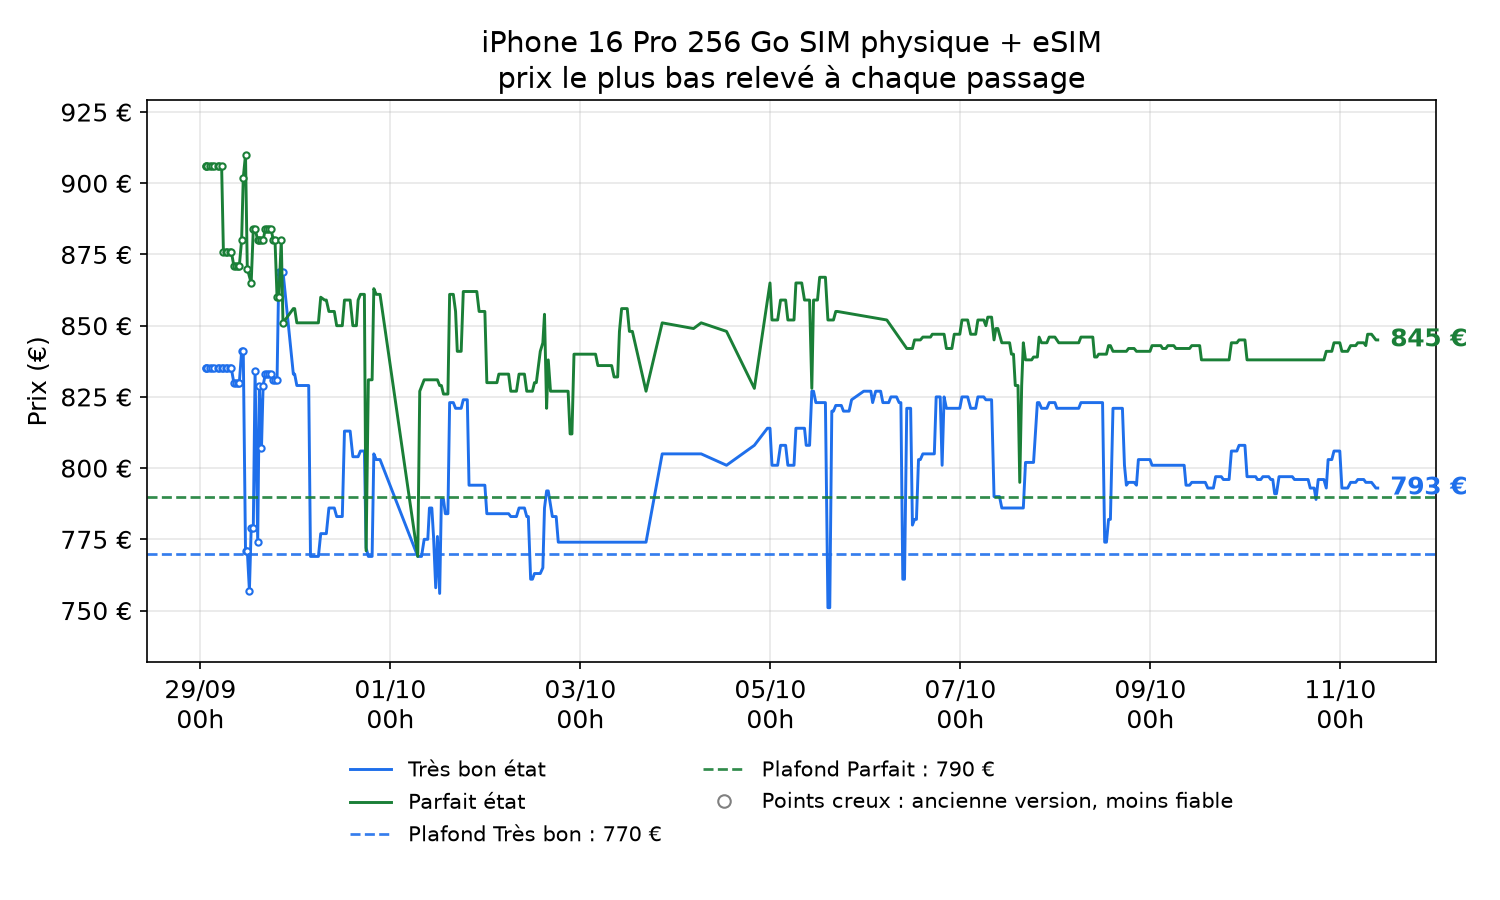
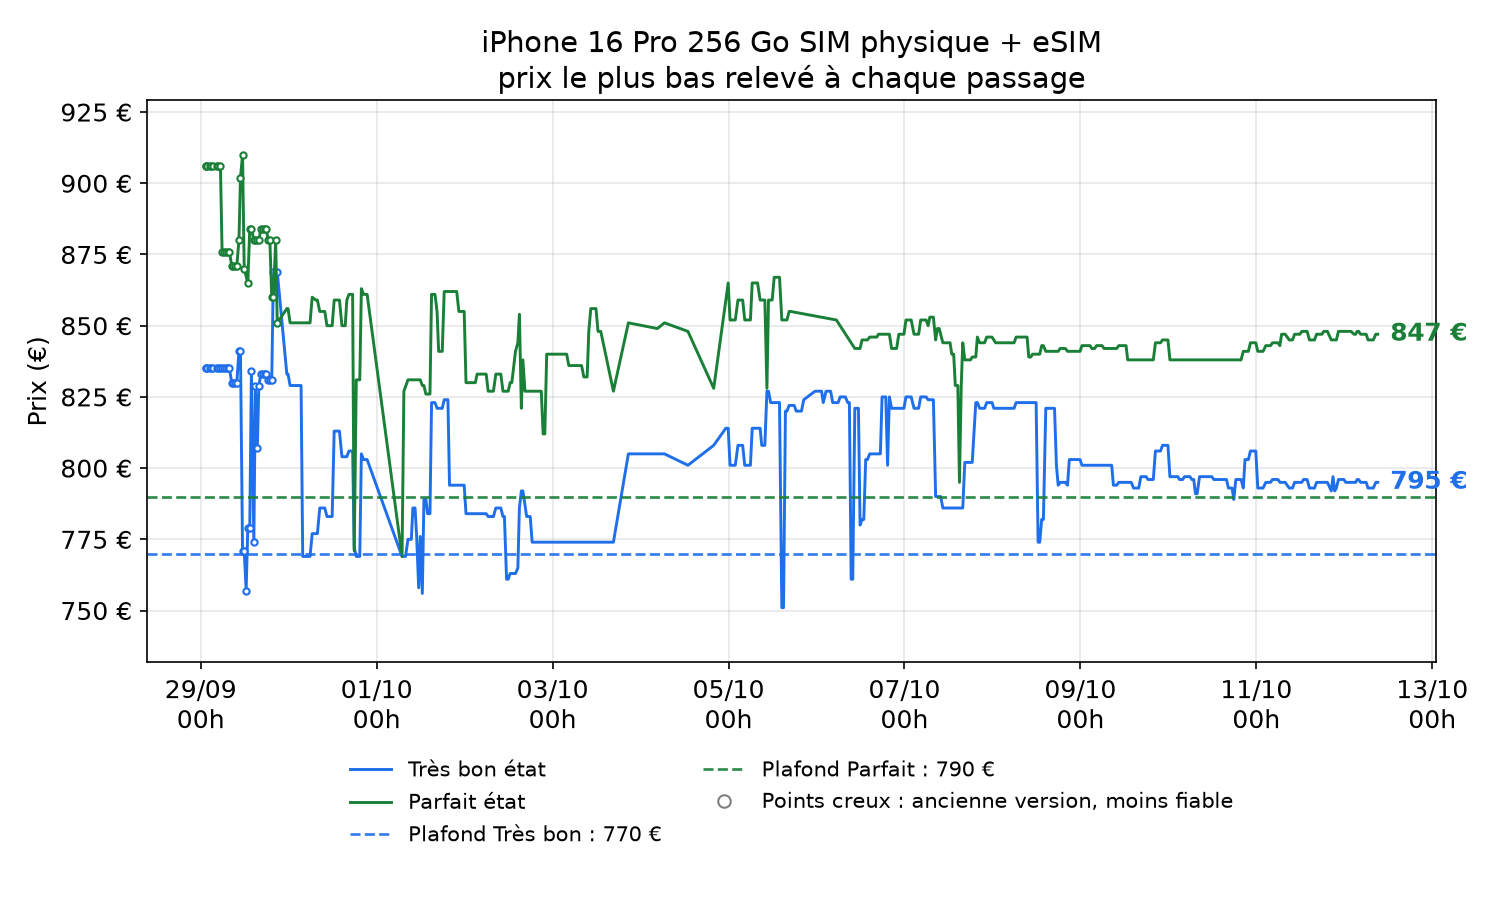
Relevé de prix du 12/10 09h07

diff --git a/README.md b/README.md
@@ -5,5 +5,5 @@
 
 ![Évolution du prix](historique.png)
 
-499 passages du 29/09 01h18 au 11/10 09h26. Derniers prix : Très bon 793 € · Parfait 845 € (plafonds : Très bon 770 €, Parfait 790 €). Données complètes : [historique.csv](historique.csv).
+545 passages du 29/09 01h18 au 12/10 09h07. Derniers prix : Très bon 795 € · Parfait 847 € (plafonds : Très bon 770 €, Parfait 790 €). Données complètes : [historique.csv](historique.csv).
 <!-- veille:fin -->
